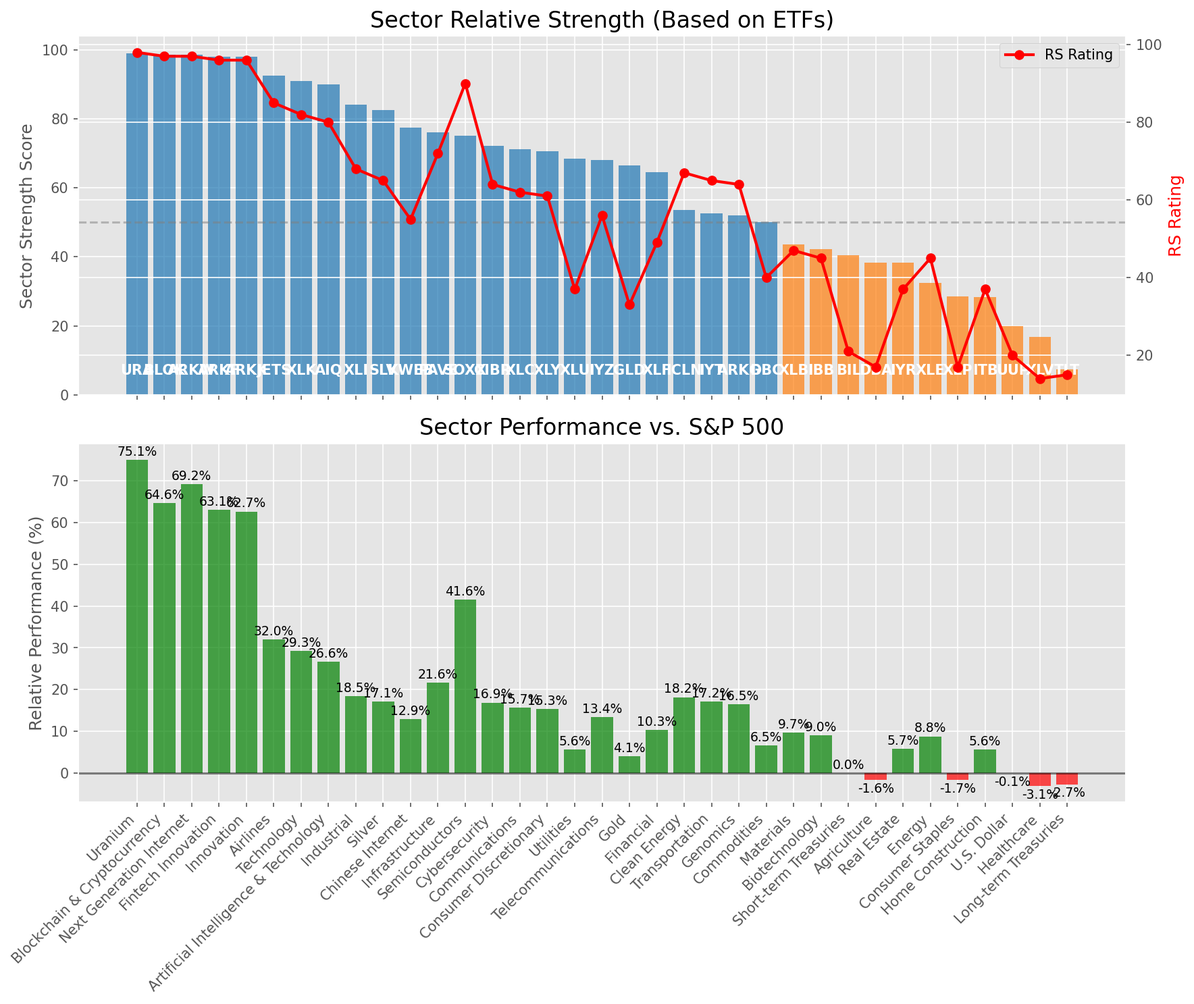
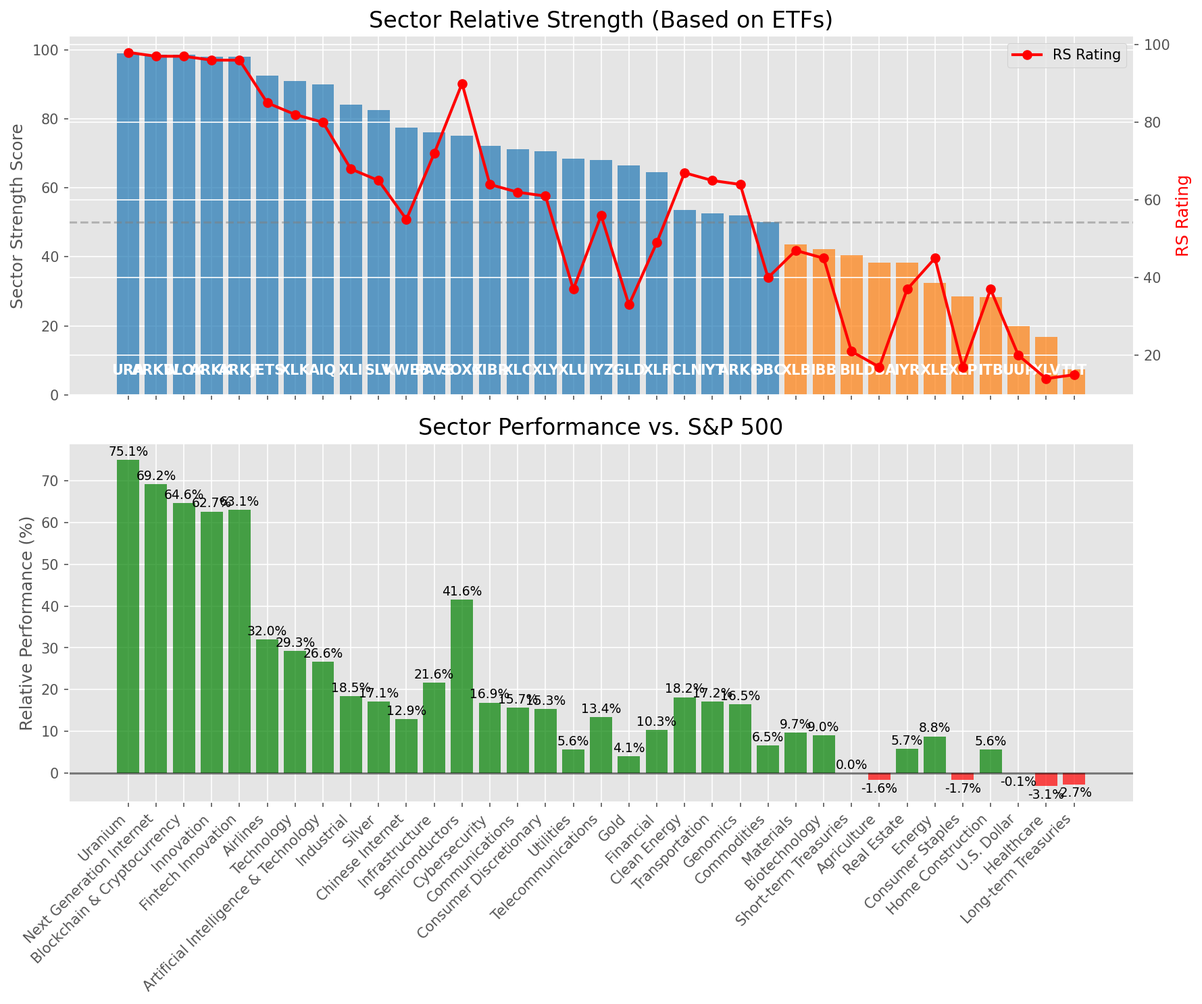
Add market report for 2025-07-16

diff --git a/oneil_relative_strength_report_2025-07-16.md b/oneil_relative_strength_report_2025-07-16.md
@@ -50,10 +50,10 @@ Based on William O'Neil's Relative Strength Methodology
 | ETF | Strength | RS Rating | Performance | Above Key MAs | Trend | Sector |
 |-----|----------|-----------|-------------|--------------|-------|--------|
 | [URA](https://www.tradingview.com/chart/?symbol=URA) | 99.0 | 98.0 | 75.09% | 10d ✓, 50d ✓, 200d ✓ | ↗ | Uranium |
-| [BLOK](https://www.tradingview.com/chart/?symbol=BLOK) | 98.5 | 97.0 | 64.63% | 10d ✓, 50d ✓, 200d ✓ | ↗ | Blockchain & Cryptocurrency |
 | [ARKW](https://www.tradingview.com/chart/?symbol=ARKW) | 98.5 | 97.0 | 69.21% | 10d ✓, 50d ✓, 200d ✓ | ↗ | Next Generation Internet |
-| [ARKF](https://www.tradingview.com/chart/?symbol=ARKF) | 98.0 | 96.0 | 63.10% | 10d ✓, 50d ✓, 200d ✓ | ↗ | Fintech Innovation |
+| [BLOK](https://www.tradingview.com/chart/?symbol=BLOK) | 98.5 | 97.0 | 64.63% | 10d ✓, 50d ✓, 200d ✓ | ↗ | Blockchain & Cryptocurrency |
 | [ARKK](https://www.tradingview.com/chart/?symbol=ARKK) | 98.0 | 96.0 | 62.67% | 10d ✓, 50d ✓, 200d ✓ | ↗ | Innovation |
+| [ARKF](https://www.tradingview.com/chart/?symbol=ARKF) | 98.0 | 96.0 | 63.10% | 10d ✓, 50d ✓, 200d ✓ | ↗ | Fintech Innovation |
 | [JETS](https://www.tradingview.com/chart/?symbol=JETS) | 92.5 | 85.0 | 32.01% | 10d ✓, 50d ✓, 200d ✓ | ↗ | Airlines |
 | [XLK](https://www.tradingview.com/chart/?symbol=XLK) | 91.0 | 82.0 | 29.25% | 10d ✓, 50d ✓, 200d ✓ | ↗ | Technology |
 | [AIQ](https://www.tradingview.com/chart/?symbol=AIQ) | 90.0 | 80.0 | 26.63% | 10d ✓, 50d ✓, 200d ✓ | ↗ | Artificial Intelligence & Technology |
@@ -98,7 +98,7 @@ This table shows the relative strength metrics for different market sectors base
 
 ### **Current Sector Leadership**
 
-The current market leadership is coming from the following sectors: **Uranium, Blockchain & Cryptocurrency, Next Generation Internet**.
+The current market leadership is coming from the following sectors: **Uranium, Next Generation Internet, Blockchain & Cryptocurrency**.
 
 The **Uranium** sector (represented by **URA**) is showing particularly strong relative strength with an RS rating of 98.0 and performance of 75.09% vs. the S&P 500. This sector is trading above its 10-day, 50-day, 200-day moving average(s). Investors should consider focusing on high RS stocks within these leading sectors for potential outperformance.
 
@@ -110,41 +110,41 @@ The following 46 stocks show exceptional relative strength:
 
 | RS Rating | Buy Score | Current Price | Chart | Name | Ticker |
 |-----------|-----------|---------------|-------|------|--------|
-| 100 | 100 | $45.81 | [Chart](https://www.tradingview.com/chart/?symbol=TTMI) | TTM Technologies Inc | TTMI |
-| 100 | 100 | $25.34 | [Chart](https://www.tradingview.com/chart/?symbol=EYE) | National Vision Holdings, Inc. Common Stock | EYE |
 | 100 | 100 | $227.26 | [Chart](https://www.tradingview.com/chart/?symbol=LEU) | Centrus Energy Corp. | LEU |
 | 100 | 100 | $103.25 | [Chart](https://www.tradingview.com/chart/?symbol=HOOD) | Robinhood Markets, Inc. Class A Common Stock | HOOD |
 | 100 | 100 | $58.55 | [Chart](https://www.tradingview.com/chart/?symbol=MP) | MP Materials Corp. | MP |
+| 100 | 100 | $25.34 | [Chart](https://www.tradingview.com/chart/?symbol=EYE) | National Vision Holdings, Inc. Common Stock | EYE |
 | 100 | 100 | $119.02 | [Chart](https://www.tradingview.com/chart/?symbol=RBLX) | Roblox Corporation | RBLX |
+| 100 | 100 | $45.81 | [Chart](https://www.tradingview.com/chart/?symbol=TTMI) | TTM Technologies Inc | TTMI |
 | 99 | 100 | $70.44 | [Chart](https://www.tradingview.com/chart/?symbol=LIF) | Life360, Inc. Common Stock | LIF |
-| 98 | 100 | $352.02 | [Chart](https://www.tradingview.com/chart/?symbol=CVNA) | Carvana Co. | CVNA |
-| 98 | 100 | $74.01 | [Chart](https://www.tradingview.com/chart/?symbol=ODD) | ODDITY Tech Ltd. Class A Ordinary Shares | ODD |
 | 98 | 100 | $104.74 | [Chart](https://www.tradingview.com/chart/?symbol=VRNA) | Verona Pharma plc | VRNA |
 | 98 | 100 | $561.17 | [Chart](https://www.tradingview.com/chart/?symbol=GEV) | GE Vernova Inc. | GEV |
+| 98 | 100 | $74.01 | [Chart](https://www.tradingview.com/chart/?symbol=ODD) | ODDITY Tech Ltd. Class A Ordinary Shares | ODD |
+| 98 | 100 | $352.02 | [Chart](https://www.tradingview.com/chart/?symbol=CVNA) | Carvana Co. | CVNA |
 | 98 | 100 | $39.27 | [Chart](https://www.tradingview.com/chart/?symbol=AS) | Amer Sports, Inc. | AS |
 | 97 | 100 | $54.28 | [Chart](https://www.tradingview.com/chart/?symbol=KTOS) | Kratos Defense & Security Solutions, Inc. | KTOS |
-| 97 | 100 | $157.04 | [Chart](https://www.tradingview.com/chart/?symbol=ARKW) | ARK Next Generation Internet ETF | ARKW |
 | 97 | 100 | $143.59 | [Chart](https://www.tradingview.com/chart/?symbol=FUTU) | Futu Holdings Limited American Depositary Shares | FUTU |
-| 96 | 100 | $100.67 | [Chart](https://www.tradingview.com/chart/?symbol=TPR) | Tapestry, Inc. Common Stock | TPR |
-| 96 | 100 | $53.40 | [Chart](https://www.tradingview.com/chart/?symbol=ARKF) | ARK Fintech Innovation ETF | ARKF |
+| 97 | 100 | $157.04 | [Chart](https://www.tradingview.com/chart/?symbol=ARKW) | ARK Next Generation Internet ETF | ARKW |
 | 96 | 100 | $150.91 | [Chart](https://www.tradingview.com/chart/?symbol=PLTR) | Palantir Technologies Inc. Class A Common Stock | PLTR |
+| 96 | 100 | $53.40 | [Chart](https://www.tradingview.com/chart/?symbol=ARKF) | ARK Fintech Innovation ETF | ARKF |
+| 96 | 100 | $100.67 | [Chart](https://www.tradingview.com/chart/?symbol=TPR) | Tapestry, Inc. Common Stock | TPR |
 | 96 | 100 | $37.02 | [Chart](https://www.tradingview.com/chart/?symbol=NNE) | Nano Nuclear Energy Inc. Common Stock | NNE |
 | 95 | 100 | $91.44 | [Chart](https://www.tradingview.com/chart/?symbol=RYTM) | Rhythm Pharmaceuticals, Inc. Common Stock | RYTM |
 | 95 | 100 | $21.28 | [Chart](https://www.tradingview.com/chart/?symbol=MIR) | Mirion Technologies, Inc. | MIR |
 | 94 | 100 | $34.37 | [Chart](https://www.tradingview.com/chart/?symbol=ATRO) | Astronics Corp | ATRO |
 | 93 | 100 | $35.53 | [Chart](https://www.tradingview.com/chart/?symbol=ATAT) | Atour Lifestyle Holdings Limited American Depositary Shares | ATAT |
-| 92 | 100 | $213.25 | [Chart](https://www.tradingview.com/chart/?symbol=AGX) | Argan, Inc | AGX |
 | 92 | 100 | $184.30 | [Chart](https://www.tradingview.com/chart/?symbol=HWM) | Howmet Aerospace Inc. | HWM |
-| 92 | 100 | $455.90 | [Chart](https://www.tradingview.com/chart/?symbol=MSTR) | MicroStrategy Inc | MSTR |
 | 92 | 100 | $79.64 | [Chart](https://www.tradingview.com/chart/?symbol=TPB) | Turning Point Brands, Inc. | TPB |
-| 91 | 100 | $90.02 | [Chart](https://www.tradingview.com/chart/?symbol=C) | Citigroup Inc. | C |
-| 91 | 100 | $266.18 | [Chart](https://www.tradingview.com/chart/?symbol=GE) | GE Aerospace | GE |
+| 92 | 100 | $455.90 | [Chart](https://www.tradingview.com/chart/?symbol=MSTR) | MicroStrategy Inc | MSTR |
+| 92 | 100 | $213.25 | [Chart](https://www.tradingview.com/chart/?symbol=AGX) | Argan, Inc | AGX |
 | 91 | 100 | $53.60 | [Chart](https://www.tradingview.com/chart/?symbol=AKRO) | Akero Therapeutics, Inc. Common Stock | AKRO |
+| 91 | 100 | $266.18 | [Chart](https://www.tradingview.com/chart/?symbol=GE) | GE Aerospace | GE |
+| 91 | 100 | $90.02 | [Chart](https://www.tradingview.com/chart/?symbol=C) | Citigroup Inc. | C |
 | 90 | 100 | $67.83 | [Chart](https://www.tradingview.com/chart/?symbol=IBIT) | iShares Bitcoin Trust ETF | IBIT |
-| 90 | 100 | $51.94 | [Chart](https://www.tradingview.com/chart/?symbol=BBW) | Build-A-Bear Workshop, Inc. | BBW |
-| 90 | 100 | $33.76 | [Chart](https://www.tradingview.com/chart/?symbol=HODL) | VanEck Bitcoin ETF | HODL |
-| 90 | 100 | $122.16 | [Chart](https://www.tradingview.com/chart/?symbol=TWLO) | Twilio Inc. | TWLO |
 | 90 | 100 | $52.86 | [Chart](https://www.tradingview.com/chart/?symbol=BTC) | Grayscale Bitcoin Mini Trust ETF | BTC |
+| 90 | 100 | $122.16 | [Chart](https://www.tradingview.com/chart/?symbol=TWLO) | Twilio Inc. | TWLO |
+| 90 | 100 | $33.76 | [Chart](https://www.tradingview.com/chart/?symbol=HODL) | VanEck Bitcoin ETF | HODL |
+| 90 | 100 | $51.94 | [Chart](https://www.tradingview.com/chart/?symbol=BBW) | Build-A-Bear Workshop, Inc. | BBW |
 | 87 | 100 | $161.30 | [Chart](https://www.tradingview.com/chart/?symbol=SE) | Sea Limited American Depositary Shares, each representing one Class A Ordinary Share | SE |
 | 89 | 99 | $145.14 | [Chart](https://www.tradingview.com/chart/?symbol=PPA) | Invesco Aerospace & Defense ETF | PPA |
 | 88 | 99 | $59.45 | [Chart](https://www.tradingview.com/chart/?symbol=IBKR) | Interactive Brokers Group, Inc. Class A Common Stock | IBKR |
@@ -162,67 +162,67 @@ The following 46 stocks show exceptional relative strength:
 
 ## **Sell Recommendations**
 
-The following 177 stocks show deteriorating relative strength:
+The following 175 stocks show deteriorating relative strength:
 
 | RS Rating | Sell Score | Current Price | Chart | Name | Ticker |
 |-----------|------------|---------------|-------|------|--------|
 | 1 | 100 | $24.90 | [Chart](https://www.tradingview.com/chart/?symbol=QID) | ProShares UltraShort QQQ | QID |
-| 1 | 100 | $11.03 | [Chart](https://www.tradingview.com/chart/?symbol=TZA) | Direxion Daily Small Cap Bear 3x Shares | TZA |
-| 1 | 100 | $10.09 | [Chart](https://www.tradingview.com/chart/?symbol=HIBS) | Direxion Daily S&P 500 High Beta Bear 3X Shares | HIBS |
 | 1 | 100 | $25.17 | [Chart](https://www.tradingview.com/chart/?symbol=TECS) | Direxion Daily Technology Bear 3x Shares | TECS |
+| 1 | 100 | $10.09 | [Chart](https://www.tradingview.com/chart/?symbol=HIBS) | Direxion Daily S&P 500 High Beta Bear 3X Shares | HIBS |
+| 1 | 100 | $11.03 | [Chart](https://www.tradingview.com/chart/?symbol=TZA) | Direxion Daily Small Cap Bear 3x Shares | TZA |
 | 1 | 100 | $33.31 | [Chart](https://www.tradingview.com/chart/?symbol=SARK) | Investment Managers Series Trust II Tradr 1X Short Innovation Daily ETF | SARK |
-| 2 | 100 | $16.40 | [Chart](https://www.tradingview.com/chart/?symbol=SDS) | ProShares UltraShort S&P500 | SDS |
-| 2 | 100 | $12.10 | [Chart](https://www.tradingview.com/chart/?symbol=IART) | Integra LifeSciences Holdings | IART |
-| 2 | 100 | $41.16 | [Chart](https://www.tradingview.com/chart/?symbol=SDOW) | ProShares UltraPro Short Dow 30 | SDOW |
-| 2 | 100 | $74.41 | [Chart](https://www.tradingview.com/chart/?symbol=LNTH) | Lantheus Holdings, Inc | LNTH |
-| 2 | 100 | $10.25 | [Chart](https://www.tradingview.com/chart/?symbol=SNDX) | Syndax Pharmaceuticals, Inc. | SNDX |
 | 2 | 100 | $40.85 | [Chart](https://www.tradingview.com/chart/?symbol=LINE) | Lineage, Inc. Common Stock | LINE |
-| 3 | 100 | $226.56 | [Chart](https://www.tradingview.com/chart/?symbol=HUM) | Humana Inc. | HUM |
-| 3 | 100 | $98.10 | [Chart](https://www.tradingview.com/chart/?symbol=ONTO) | Onto Innovation Inc. | ONTO |
+| 2 | 100 | $16.40 | [Chart](https://www.tradingview.com/chart/?symbol=SDS) | ProShares UltraShort S&P500 | SDS |
+| 2 | 100 | $74.41 | [Chart](https://www.tradingview.com/chart/?symbol=LNTH) | Lantheus Holdings, Inc | LNTH |
+| 2 | 100 | $41.16 | [Chart](https://www.tradingview.com/chart/?symbol=SDOW) | ProShares UltraPro Short Dow 30 | SDOW |
+| 2 | 100 | $12.10 | [Chart](https://www.tradingview.com/chart/?symbol=IART) | Integra LifeSciences Holdings | IART |
+| 2 | 100 | $10.25 | [Chart](https://www.tradingview.com/chart/?symbol=SNDX) | Syndax Pharmaceuticals, Inc. | SNDX |
 | 3 | 100 | $10.56 | [Chart](https://www.tradingview.com/chart/?symbol=SONO) | Sonos, Inc. Common Stock | SONO |
+| 3 | 100 | $98.10 | [Chart](https://www.tradingview.com/chart/?symbol=ONTO) | Onto Innovation Inc. | ONTO |
 | 3 | 100 | $17.02 | [Chart](https://www.tradingview.com/chart/?symbol=BTAL) | AGF U.S. Market Neutral Anti-Beta Fund | BTAL |
 | 3 | 100 | $15.59 | [Chart](https://www.tradingview.com/chart/?symbol=HP) | Helmerich & Payne, Inc. | HP |
+| 3 | 100 | $226.56 | [Chart](https://www.tradingview.com/chart/?symbol=HUM) | Humana Inc. | HUM |
 | 3 | 100 | $110.91 | [Chart](https://www.tradingview.com/chart/?symbol=COKE) | Coca-Cola Consolidated, Inc. Common Stock | COKE |
 | 3 | 100 | $36.92 | [Chart](https://www.tradingview.com/chart/?symbol=IBTA) | Ibotta, Inc. | IBTA |
 | 4 | 100 | $24.13 | [Chart](https://www.tradingview.com/chart/?symbol=DXD) | ProShares UltraShort Dow 30 | DXD |
-| 4 | 100 | $22.09 | [Chart](https://www.tradingview.com/chart/?symbol=ERY) | Direxion Daily Energy Bear 2X Shares | ERY |
-| 4 | 100 | $33.41 | [Chart](https://www.tradingview.com/chart/?symbol=PSQ) | ProShares Short QQQ | PSQ |
-| 4 | 100 | $10.22 | [Chart](https://www.tradingview.com/chart/?symbol=WNC) | Wabash National Corp. | WNC |
-| 4 | 100 | $12.86 | [Chart](https://www.tradingview.com/chart/?symbol=AVTR) | Avantor, Inc. | AVTR |
 | 4 | 100 | $10.14 | [Chart](https://www.tradingview.com/chart/?symbol=LBTYK) | Liberty Global Ltd. Class C Common Shares | LBTYK |
-| 4 | 100 | $30.20 | [Chart](https://www.tradingview.com/chart/?symbol=CRI) | Carter's Inc. | CRI |
+| 4 | 100 | $33.41 | [Chart](https://www.tradingview.com/chart/?symbol=PSQ) | ProShares Short QQQ | PSQ |
 | 4 | 100 | $12.01 | [Chart](https://www.tradingview.com/chart/?symbol=CCRN) | Cross Country Healthcare Inc | CCRN |
+| 4 | 100 | $10.22 | [Chart](https://www.tradingview.com/chart/?symbol=WNC) | Wabash National Corp. | WNC |
+| 4 | 100 | $30.20 | [Chart](https://www.tradingview.com/chart/?symbol=CRI) | Carter's Inc. | CRI |
+| 4 | 100 | $22.09 | [Chart](https://www.tradingview.com/chart/?symbol=ERY) | Direxion Daily Energy Bear 2X Shares | ERY |
+| 4 | 100 | $12.86 | [Chart](https://www.tradingview.com/chart/?symbol=AVTR) | Avantor, Inc. | AVTR |
 | 5 | 100 | $113.32 | [Chart](https://www.tradingview.com/chart/?symbol=TFX) | Teleflex Incorporated | TFX |
 | 5 | 100 | $23.50 | [Chart](https://www.tradingview.com/chart/?symbol=CRTO) | Criteo S.A. | CRTO |
-| 5 | 100 | $44.26 | [Chart](https://www.tradingview.com/chart/?symbol=ACIW) | ACI Worldwide, Inc. | ACIW |
 | 5 | 100 | $39.40 | [Chart](https://www.tradingview.com/chart/?symbol=SH) | ProShares Short S&P500 | SH |
 | 5 | 100 | $127.50 | [Chart](https://www.tradingview.com/chart/?symbol=INSP) | Inspire Medical Systems, Inc. | INSP |
 | 5 | 100 | $22.68 | [Chart](https://www.tradingview.com/chart/?symbol=ACHC) | Acadia Healthcare Company, Inc. | ACHC |
+| 5 | 100 | $44.26 | [Chart](https://www.tradingview.com/chart/?symbol=ACIW) | ACI Worldwide, Inc. | ACIW |
 | 6 | 100 | $10.16 | [Chart](https://www.tradingview.com/chart/?symbol=SD) | SandRidge Energy, Inc. | SD |
 | 6 | 100 | $14.55 | [Chart](https://www.tradingview.com/chart/?symbol=SEM) | SELECT MEDICAL HOLDINGS CORP | SEM |
-| 6 | 100 | $27.78 | [Chart](https://www.tradingview.com/chart/?symbol=OMCL) | Omnicell Inc | OMCL |
 | 6 | 100 | $22.01 | [Chart](https://www.tradingview.com/chart/?symbol=GPK) | Graphic Packaging Holding Company | GPK |
 | 6 | 100 | $124.83 | [Chart](https://www.tradingview.com/chart/?symbol=ICUI) | ICU Medical Inc | ICUI |
-| 6 | 100 | $59.28 | [Chart](https://www.tradingview.com/chart/?symbol=COLM) | Columbia Sportswear Co | COLM |
 | 6 | 100 | $10.18 | [Chart](https://www.tradingview.com/chart/?symbol=IMXI) | International Money Express, Inc. | IMXI |
-| 7 | 100 | $126.90 | [Chart](https://www.tradingview.com/chart/?symbol=CLX) | Clorox Company | CLX |
+| 6 | 100 | $59.28 | [Chart](https://www.tradingview.com/chart/?symbol=COLM) | Columbia Sportswear Co | COLM |
+| 6 | 100 | $27.78 | [Chart](https://www.tradingview.com/chart/?symbol=OMCL) | Omnicell Inc | OMCL |
 | 7 | 100 | $51.51 | [Chart](https://www.tradingview.com/chart/?symbol=LGIH) | LGI Homes, Inc. | LGIH |
-| 7 | 100 | $45.67 | [Chart](https://www.tradingview.com/chart/?symbol=CWT) | California Water Service | CWT |
+| 7 | 100 | $126.90 | [Chart](https://www.tradingview.com/chart/?symbol=CLX) | Clorox Company | CLX |
 | 7 | 100 | $50.00 | [Chart](https://www.tradingview.com/chart/?symbol=LW) | Lamb Weston Holdings, Inc. | LW |
-| 8 | 100 | $10.67 | [Chart](https://www.tradingview.com/chart/?symbol=OEC) | Orion S.A. | OEC |
+| 7 | 100 | $45.67 | [Chart](https://www.tradingview.com/chart/?symbol=CWT) | California Water Service | CWT |
 | 8 | 100 | $25.45 | [Chart](https://www.tradingview.com/chart/?symbol=DOG) | ProShares Short Dow30 | DOG |
-| 8 | 100 | $53.23 | [Chart](https://www.tradingview.com/chart/?symbol=AMWD) | American Woodmark Corp | AMWD |
+| 8 | 100 | $10.67 | [Chart](https://www.tradingview.com/chart/?symbol=OEC) | Orion S.A. | OEC |
 | 8 | 100 | $10.13 | [Chart](https://www.tradingview.com/chart/?symbol=LBTYA) | Liberty Global Ltd. Class A Common Shares | LBTYA |
+| 8 | 100 | $53.23 | [Chart](https://www.tradingview.com/chart/?symbol=AMWD) | American Woodmark Corp | AMWD |
 | 9 | 100 | $15.75 | [Chart](https://www.tradingview.com/chart/?symbol=TNDM) | Tandem Diabetes Care, Inc. | TNDM |
 | 9 | 100 | $87.66 | [Chart](https://www.tradingview.com/chart/?symbol=CL) | Colgate-Palmolive Company | CL |
 | 10 | 100 | $11.32 | [Chart](https://www.tradingview.com/chart/?symbol=CLB) | Core Laboratories Inc. | CLB |
-| 10 | 100 | $101.44 | [Chart](https://www.tradingview.com/chart/?symbol=AFL) | Aflac Inc. | AFL |
 | 10 | 100 | $62.57 | [Chart](https://www.tradingview.com/chart/?symbol=ZROZ) | PIMCO 25+ Year Zero Coupon U.S. Treasury Index Exchange-Traded Fund | ZROZ |
+| 10 | 100 | $101.44 | [Chart](https://www.tradingview.com/chart/?symbol=AFL) | Aflac Inc. | AFL |
 | 11 | 100 | $119.75 | [Chart](https://www.tradingview.com/chart/?symbol=RGEN) | Repligen Corp | RGEN |
 | 11 | 100 | $331.91 | [Chart](https://www.tradingview.com/chart/?symbol=EG) | Everest Group, Ltd. | EG |
+| 12 | 100 | $15.82 | [Chart](https://www.tradingview.com/chart/?symbol=BBN) | BlackRock Taxable Municipal Bond Trust | BBN |
 | 12 | 100 | $22.56 | [Chart](https://www.tradingview.com/chart/?symbol=RPD) | Rapid7, Inc. Common Stock | RPD |
 | 12 | 100 | $27.22 | [Chart](https://www.tradingview.com/chart/?symbol=GTY) | Getty Realty Corp. | GTY |
-| 12 | 100 | $15.82 | [Chart](https://www.tradingview.com/chart/?symbol=BBN) | BlackRock Taxable Municipal Bond Trust | BBN |
 | 8 | 99 | $153.73 | [Chart](https://www.tradingview.com/chart/?symbol=PG) | Procter & Gamble Company | PG |
 | 10 | 99 | $103.18 | [Chart](https://www.tradingview.com/chart/?symbol=DEO) | Diageo plc | DEO |
 | 12 | 99 | $170.28 | [Chart](https://www.tradingview.com/chart/?symbol=UHS) | Universal Health Services, Inc. Class B | UHS |
@@ -231,8 +231,8 @@ The following 177 stocks show deteriorating relative strength:
 | 16 | 99 | $49.94 | [Chart](https://www.tradingview.com/chart/?symbol=CNMD) | CONMED Corporation | CNMD |
 | 6 | 98 | $37.35 | [Chart](https://www.tradingview.com/chart/?symbol=LKQ) | LKQ Corporation | LKQ |
 | 7 | 98 | $127.63 | [Chart](https://www.tradingview.com/chart/?symbol=KMB) | Kimberly-Clark Corp. | KMB |
-| 9 | 98 | $24.85 | [Chart](https://www.tradingview.com/chart/?symbol=DRV) | Direxion Daily Real Estate Bear 3X Shares | DRV |
 | 9 | 98 | $305.82 | [Chart](https://www.tradingview.com/chart/?symbol=CI) | The Cigna Group | CI |
+| 9 | 98 | $24.85 | [Chart](https://www.tradingview.com/chart/?symbol=DRV) | Direxion Daily Real Estate Bear 3X Shares | DRV |
 | 11 | 98 | $73.00 | [Chart](https://www.tradingview.com/chart/?symbol=BG) | Bunge Global SA | BG |
 | 14 | 98 | $164.27 | [Chart](https://www.tradingview.com/chart/?symbol=HSY) | The Hershey Company | HSY |
 | 15 | 98 | $21.00 | [Chart](https://www.tradingview.com/chart/?symbol=LGOV) | First Trust Long Duration Opportunities ETF | LGOV |
@@ -244,12 +244,12 @@ The following 177 stocks show deteriorating relative strength:
 | 11 | 97 | $14.26 | [Chart](https://www.tradingview.com/chart/?symbol=INMD) | InMode Ltd. Ordinary Shares | INMD |
 | 13 | 97 | $18.63 | [Chart](https://www.tradingview.com/chart/?symbol=SPT) | Sprout Social, Inc Class A Common Stock | SPT |
 | 17 | 97 | $21.68 | [Chart](https://www.tradingview.com/chart/?symbol=TUA) | Simplify Short Term Treasury Futures Strategy ETF | TUA |
-| 10 | 96 | $48.52 | [Chart](https://www.tradingview.com/chart/?symbol=SNY) | Sanofi American Depositary Shares (Each representing one-half of one ordinary share) | SNY |
 | 10 | 96 | $211.87 | [Chart](https://www.tradingview.com/chart/?symbol=EXP) | Eagle Materials, Inc. | EXP |
 | 13 | 96 | $38.10 | [Chart](https://www.tradingview.com/chart/?symbol=KSA) | iShares MSCI Saudi Arabia ETF | KSA |
 | 13 | 96 | $14.68 | [Chart](https://www.tradingview.com/chart/?symbol=VRE) | Veris Residential, Inc. | VRE |
 | 15 | 96 | $85.13 | [Chart](https://www.tradingview.com/chart/?symbol=TLT) | iShares 20+ Year Treasury Bond ETF | TLT |
 | 9 | 95 | $47.17 | [Chart](https://www.tradingview.com/chart/?symbol=BMY) | Bristol-Myers Squibb Co. | BMY |
+| 10 | 95 | $48.52 | [Chart](https://www.tradingview.com/chart/?symbol=SNY) | Sanofi American Depositary Shares (Each representing one-half of one ordinary share) | SNY |
 | 15 | 95 | $10.95 | [Chart](https://www.tradingview.com/chart/?symbol=MQY) | Blackrock Muni Yield Quality Fund, Inc | MQY |
 | 17 | 95 | $33.51 | [Chart](https://www.tradingview.com/chart/?symbol=HTRB) | Hartford Total Return Bond ETF | HTRB |
 | 11 | 94 | $23.76 | [Chart](https://www.tradingview.com/chart/?symbol=PNTG) | The Pennant Group, Inc. Common Stock | PNTG |
@@ -269,7 +269,6 @@ The following 177 stocks show deteriorating relative strength:
 | 14 | 92 | $60.32 | [Chart](https://www.tradingview.com/chart/?symbol=UL) | Unilever plc | UL |
 | 17 | 92 | $32.21 | [Chart](https://www.tradingview.com/chart/?symbol=INVH) | Invitation Homes Inc. Common Stock | INVH |
 | 12 | 91 | $17.69 | [Chart](https://www.tradingview.com/chart/?symbol=LOVE) | The Lovesac Company Common Stock | LOVE |
-| 15 | 91 | $73.72 | [Chart](https://www.tradingview.com/chart/?symbol=WFG) | West Fraser Timber Co. Ltd | WFG |
 | 17 | 91 | $26.17 | [Chart](https://www.tradingview.com/chart/?symbol=BAB) | Invesco Taxable Municipal Bond ETF | BAB |
 | 18 | 91 | $16.92 | [Chart](https://www.tradingview.com/chart/?symbol=UMH) | UMH Properties, Inc. | UMH |
 | 18 | 91 | $17.09 | [Chart](https://www.tradingview.com/chart/?symbol=STAA) | Staar Surgical Co | STAA |
@@ -278,13 +277,13 @@ The following 177 stocks show deteriorating relative strength:
 | 17 | 90 | $16.33 | [Chart](https://www.tradingview.com/chart/?symbol=MLNK) | MeridianLink, Inc. | MLNK |
 | 18 | 90 | $43.33 | [Chart](https://www.tradingview.com/chart/?symbol=CMPR) | Cimpress PLC Ordinary Shares (Ireland) | CMPR |
 | 13 | 89 | $26.35 | [Chart](https://www.tradingview.com/chart/?symbol=FCPT) | Four Corners Property Trust, Inc. | FCPT |
-| 18 | 88 | $13.77 | [Chart](https://www.tradingview.com/chart/?symbol=DOLE) | Dole plc | DOLE |
 | 18 | 88 | $10.88 | [Chart](https://www.tradingview.com/chart/?symbol=FBRT) | Franklin BSP Realty Trust, Inc. | FBRT |
-| 20 | 88 | $22.85 | [Chart](https://www.tradingview.com/chart/?symbol=IBTG) | iShares iBonds Dec 2026 Term Treasury ETF | IBTG |
+| 18 | 88 | $13.77 | [Chart](https://www.tradingview.com/chart/?symbol=DOLE) | Dole plc | DOLE |
 | 20 | 88 | $94.17 | [Chart](https://www.tradingview.com/chart/?symbol=IEF) | iShares 7-10 Year Treasury Bond ETF | IEF |
+| 20 | 88 | $22.85 | [Chart](https://www.tradingview.com/chart/?symbol=IBTG) | iShares iBonds Dec 2026 Term Treasury ETF | IBTG |
 | 22 | 88 | $16.59 | [Chart](https://www.tradingview.com/chart/?symbol=NVCR) | NovoCure Limited Ordinary Shares | NVCR |
-| 24 | 88 | $102.20 | [Chart](https://www.tradingview.com/chart/?symbol=PRU) | Prudential Financial, Inc. | PRU |
 | 24 | 88 | $10.82 | [Chart](https://www.tradingview.com/chart/?symbol=NEA) | Nuveen AMT-Free Quality Municipal Income Fund | NEA |
+| 24 | 88 | $102.20 | [Chart](https://www.tradingview.com/chart/?symbol=PRU) | Prudential Financial, Inc. | PRU |
 | 26 | 88 | $11.75 | [Chart](https://www.tradingview.com/chart/?symbol=NZF) | Nuveen Municipal Credit Income Fund | NZF |
 | 19 | 87 | $25.90 | [Chart](https://www.tradingview.com/chart/?symbol=WY) | Weyerhaeuser Company | WY |
 | 20 | 87 | $10.15 | [Chart](https://www.tradingview.com/chart/?symbol=MUC) | BLACKROCK MUNIHOLDINGS CALIFORNIA QUALITY FUND, INC | MUC |
@@ -295,7 +294,6 @@ The following 177 stocks show deteriorating relative strength:
 | 18 | 86 | $18.72 | [Chart](https://www.tradingview.com/chart/?symbol=AKR) | Acadia Realty Trust | AKR |
 | 21 | 86 | $39.64 | [Chart](https://www.tradingview.com/chart/?symbol=TOTL) | SSgA Active ETF Trust SPDR DoubleLine Total Return Tactical ETF | TOTL |
 | 24 | 86 | $34.40 | [Chart](https://www.tradingview.com/chart/?symbol=CMCSA) | Comcast Corp | CMCSA |
-| 20 | 85 | $28.37 | [Chart](https://www.tradingview.com/chart/?symbol=BAX) | Baxter International Inc. | BAX |
 | 24 | 85 | $15.18 | [Chart](https://www.tradingview.com/chart/?symbol=SAFE) | Safehold Inc. | SAFE |
 | 25 | 85 | $74.22 | [Chart](https://www.tradingview.com/chart/?symbol=IFF) | International Flavors & Fragrances Inc. | IFF |
 | 19 | 84 | $117.13 | [Chart](https://www.tradingview.com/chart/?symbol=ITGR) | Integer Holdings Corporation | ITGR |
@@ -320,10 +318,10 @@ The following 177 stocks show deteriorating relative strength:
 | 29 | 79 | $94.34 | [Chart](https://www.tradingview.com/chart/?symbol=FRT) | Federal Realty Investment Trust | FRT |
 | 32 | 79 | $178.18 | [Chart](https://www.tradingview.com/chart/?symbol=AVY) | Avery Dennison Corp. | AVY |
 | 32 | 78 | $160.83 | [Chart](https://www.tradingview.com/chart/?symbol=ODFL) | Old Dominion Freight Line | ODFL |
-| 30 | 77 | $102.88 | [Chart](https://www.tradingview.com/chart/?symbol=CNI) | Canadian National Railway | CNI |
 | 30 | 77 | $149.35 | [Chart](https://www.tradingview.com/chart/?symbol=EA) | Electronic Arts Inc | EA |
 | 35 | 77 | $298.16 | [Chart](https://www.tradingview.com/chart/?symbol=UTHR) | United Therapeutics Corp | UTHR |
 | 29 | 76 | $17.72 | [Chart](https://www.tradingview.com/chart/?symbol=S) | SentinelOne, Inc. | S |
+| 30 | 76 | $102.88 | [Chart](https://www.tradingview.com/chart/?symbol=CNI) | Canadian National Railway | CNI |
 | 30 | 76 | $68.83 | [Chart](https://www.tradingview.com/chart/?symbol=BRC) | Brady Corporation | BRC |
 | 37 | 76 | $12.72 | [Chart](https://www.tradingview.com/chart/?symbol=NOV) | NOV Inc. | NOV |
 | 37 | 75 | $11.23 | [Chart](https://www.tradingview.com/chart/?symbol=SHC) | Sotera Health Company Common Stock | SHC |
@@ -336,8 +334,8 @@ The following 177 stocks show deteriorating relative strength:
 | 39 | 72 | $12.35 | [Chart](https://www.tradingview.com/chart/?symbol=RQI) | COHEN & STEERS QUALITY INCOME REALTY FUND, INC. COMMON SHARES | RQI |
 | 35 | 71 | $17.68 | [Chart](https://www.tradingview.com/chart/?symbol=DIV) | Global X SuperDividend U.S. ETF | DIV |
 | 34 | 70 | $68.94 | [Chart](https://www.tradingview.com/chart/?symbol=HHH) | Howard Hughes Holdings Inc. | HHH |
-| 37 | 70 | $122.55 | [Chart](https://www.tradingview.com/chart/?symbol=GPC) | Genuine Parts Company | GPC |
 | 37 | 70 | $158.03 | [Chart](https://www.tradingview.com/chart/?symbol=SSD) | Simpson Manufacturing Co., Inc. | SSD |
+| 37 | 70 | $122.55 | [Chart](https://www.tradingview.com/chart/?symbol=GPC) | Genuine Parts Company | GPC |
 | 32 | 68 | $13.35 | [Chart](https://www.tradingview.com/chart/?symbol=PDO) | PIMCO Dynamic Income Opportunities Fund | PDO |
 | 39 | 67 | $17.66 | [Chart](https://www.tradingview.com/chart/?symbol=ALEX) | Alexander & Baldwin, Inc. | ALEX |
 | 39 | 65 | $57.04 | [Chart](https://www.tradingview.com/chart/?symbol=PRCT) | PROCEPT BioRobotics Corporation Common Stock | PRCT |
